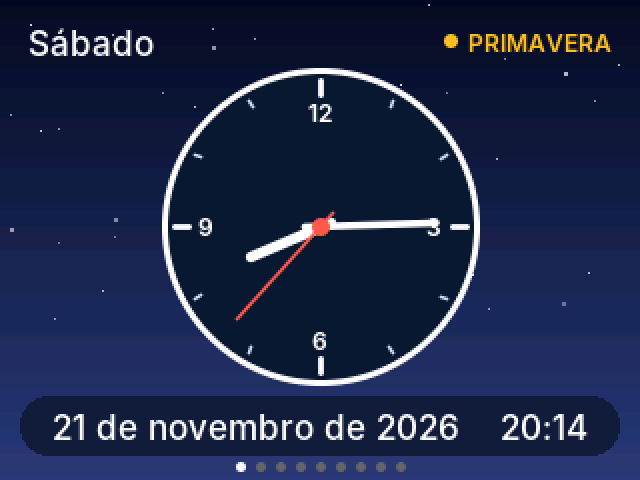
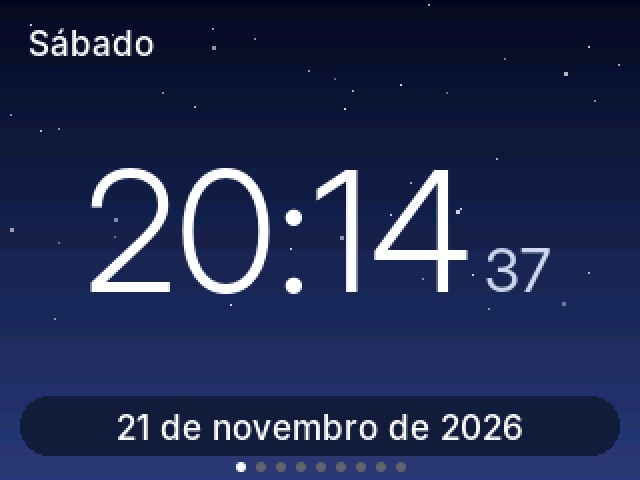
Troca o relógio de ponteiros por um digital e remove a estação do ano
Claude-Session: https://claude.ai/code/session_013r1tWBcHcwZwkaXJ8MnPzY

Changed region(s): [[0.125, 0.125, 0.875, 0.8125], [0.0938, 0.8438, 0.9375, 0.9375], [0.6875, 0.0625, 0.9688, 0.125]]

diff --git a/src/ui/screen_clock.cpp b/src/ui/screen_clock.cpp
@@ -1,4 +1,3 @@
-#include <math.h>
 #include <stdio.h>
 
 #include "fonts/ui_fonts.h"
@@ -9,25 +8,10 @@
 namespace ui {
 namespace {
 
-constexpr float kTwoPi = 6.2831853f;
-constexpr uint32_t kFace = 0x0E1A33u;
-constexpr uint32_t kSecondHand = 0xFF5A4Fu;
-
 const char* const kWeekdays[] = {"Domingo", "Segunda-feira", "Terça-feira", "Quarta-feira",
                                  "Quinta-feira", "Sexta-feira", "Sábado"};
 const char* const kMonths[] = {"janeiro", "fevereiro", "março", "abril", "maio", "junho",
                                "julho", "agosto", "setembro", "outubro", "novembro", "dezembro"};
-const char* const kSeasons[] = {"VERÃO", "OUTONO", "INVERNO", "PRIMAVERA"};
-
-// Estações astronômicas aproximadas; índice 0 = verão no hemisfério sul
-const char* seasonName(const tm& now, bool southernHemisphere) {
-  const int dayCode = (now.tm_mon + 1) * 100 + now.tm_mday;
-  int index = 0;
-  if (dayCode >= 320 && dayCode < 621) index = 1;
-  else if (dayCode >= 621 && dayCode < 922) index = 2;
-  else if (dayCode >= 922 && dayCode < 1221) index = 3;
-  return kSeasons[southernHemisphere ? index : (index + 2) % 4];
-}
 
 void drawSkyForHour(LovyanGFX& gfx, int hour) {
   if (hour >= 6 && hour < 8) {
@@ -42,68 +26,35 @@ void drawSkyForHour(LovyanGFX& gfx, int hour) {
   }
 }
 
-void drawHand(LovyanGFX& gfx, int cx, int cy, float turns, int length, float thickness, uint32_t tint) {
-  const float angle = turns * kTwoPi;
-  gfx.drawWideLine(cx - static_cast<int>(sinf(angle) * length * 0.15f),
-                   cy + static_cast<int>(cosf(angle) * length * 0.15f),
-                   cx + static_cast<int>(sinf(angle) * length),
-                   cy - static_cast<int>(cosf(angle) * length), thickness, tint);
-}
-
-void drawFace(LovyanGFX& gfx, int cx, int cy, int radius, const tm& now) {
-  gfx.fillSmoothCircle(cx, cy, radius, color::kText);
-  gfx.fillSmoothCircle(cx, cy, radius - 3, kFace);
-
-  for (int i = 0; i < 12; ++i) {
-    const float angle = i * kTwoPi / 12;
-    const bool quarter = i % 3 == 0;
-    const int inner = radius - (quarter ? 13 : 9);
-    const int outer = radius - 6;
-    gfx.drawWideLine(cx + static_cast<int>(sinf(angle) * inner), cy - static_cast<int>(cosf(angle) * inner),
-                     cx + static_cast<int>(sinf(angle) * outer), cy - static_cast<int>(cosf(angle) * outer),
-                     quarter ? 1.4f : 0.8f, quarter ? color::kText : color::kTextMuted);
-  }
-
-  gfx.setFont(&fonts().small);
-  gfx.setTextDatum(lgfx::middle_center);
-  gfx.setTextColor(color::kText);
-  for (int hour = 3; hour <= 12; hour += 3) {
-    char label[3];
-    snprintf(label, sizeof(label), "%d", hour);
-    const float angle = hour * kTwoPi / 12;
-    gfx.drawString(label, cx + static_cast<int>(sinf(angle) * (radius - 22)),
-                   cy - static_cast<int>(cosf(angle) * (radius - 22)));
-  }
-
-  const float seconds = now.tm_sec / 60.0f;
-  const float minutes = (now.tm_min + seconds) / 60.0f;
-  const float hours = (now.tm_hour % 12 + minutes) / 12.0f;
-  drawHand(gfx, cx, cy, hours, radius * 50 / 100, 2.6f, color::kText);
-  drawHand(gfx, cx, cy, minutes, radius * 74 / 100, 1.8f, color::kText);
-  drawHand(gfx, cx, cy, seconds, radius * 80 / 100, 0.8f, kSecondHand);
-  gfx.fillSmoothCircle(cx, cy, 4, kSecondHand);
-}
-
 }  // namespace
 
-void drawClockScreen(LovyanGFX& gfx, const tm& now, bool southernHemisphere) {
+void drawClockScreen(LovyanGFX& gfx, const tm& now) {
   drawSkyForHour(gfx, now.tm_hour);
-  drawHeader(gfx, kWeekdays[now.tm_wday % 7], seasonName(now, southernHemisphere), color::kNeutral, true);
+  drawHeader(gfx, kWeekdays[now.tm_wday % 7], nullptr, color::kText);
 
-  const Rect footer = drawFooterPanel(gfx);
-  const int radius = (footer.y - kHeaderBottom - 6) / 2;
-  drawFace(gfx, gfx.width() / 2, kHeaderBottom + radius, radius, now);
-
+  // Horas e minutos centralizados; os segundos ficam ao lado, alinhados pela base
   char text[40];
-  const int middleY = footer.y + footer.h / 2;
+  const Rect footer = drawFooterPanel(gfx);
+  const int baseline = (kHeaderBottom + footer.y) / 2 + 30;
+  gfx.setTextColor(color::kText);
+  gfx.setFont(&fonts().large);
+  snprintf(text, sizeof(text), "%02d", now.tm_sec);
+  const int secondsWidth = gfx.textWidth("00") + 6;
+  gfx.setFont(&fonts().huge);
+  char time[8];
+  snprintf(time, sizeof(time), "%02d:%02d", now.tm_hour, now.tm_min);
+  const int timeX = (gfx.width() - gfx.textWidth(time) - secondsWidth) / 2;
+  gfx.setTextDatum(lgfx::baseline_left);
+  gfx.drawString(time, timeX, baseline);
+  gfx.setFont(&fonts().large);
+  gfx.setTextColor(color::kTextMuted);
+  gfx.drawString(text, timeX + gfx.width() - 2 * timeX - secondsWidth + 6, baseline);
+
   gfx.setFont(&fonts().medium);
   gfx.setTextColor(color::kText);
-  gfx.setTextDatum(lgfx::middle_left);
+  gfx.setTextDatum(lgfx::middle_center);
   snprintf(text, sizeof(text), "%d de %s de %d", now.tm_mday, kMonths[now.tm_mon % 12], now.tm_year + 1900);
-  gfx.drawString(text, footer.x + 16, middleY);
-  gfx.setTextDatum(lgfx::middle_right);
-  snprintf(text, sizeof(text), "%02d:%02d", now.tm_hour, now.tm_min);
-  gfx.drawString(text, footer.x + footer.w - 16, middleY);
+  gfx.drawString(text, gfx.width() / 2, footer.y + footer.h / 2);
 }
 
 }  // namespace ui

diff --git a/src/ui/ui_screens.h b/src/ui/ui_screens.h
@@ -34,7 +34,6 @@ struct DashboardState {
   long long nowEpoch = 0;
   const char* city = "";
   const char* newsSource = "";
-  bool southernHemisphere = true;
 };
 
 void drawScreen(LovyanGFX& gfx, Screen screen, const DashboardState& state);
@@ -47,6 +46,6 @@ void drawStocksScreen(LovyanGFX& gfx, const StocksData& stocks);
 void drawHeadlineScreen(LovyanGFX& gfx, const NewsData& news, const HeadlineStyle& style);
 void drawBatteryScreen(LovyanGFX& gfx, const BatteryData& battery);
 void drawVideoScreen(LovyanGFX& gfx, const VideoData& video, long long nowEpoch);
-void drawClockScreen(LovyanGFX& gfx, const tm& now, bool southernHemisphere);
+void drawClockScreen(LovyanGFX& gfx, const tm& now);
 
 }  // namespace ui

diff --git a/src/ui/ui_screens.cpp b/src/ui/ui_screens.cpp
@@ -20,7 +20,7 @@ void drawScreen(LovyanGFX& gfx, Screen screen, const DashboardState& state) {
       break;
     case Screen::Battery:  drawBatteryScreen(gfx, state.battery); break;
     case Screen::Video:    drawVideoScreen(gfx, state.video, state.nowEpoch); break;
-    case Screen::Clock:    drawClockScreen(gfx, state.now, state.southernHemisphere); break;
+    case Screen::Clock:    drawClockScreen(gfx, state.now); break;
   }
 }
 

diff --git a/include/app_config.h b/include/app_config.h
@@ -26,7 +26,6 @@ constexpr float kBatteryDividerRatio = 2.0f;
 // Data e hora
 constexpr char kTimezone[] = "<-04>4";  // reserva: Cuiabá/MT, UTC-4 (formato POSIX; Brasília seria "<-03>3")
 constexpr char kNtpServer[] = "a.st1.ntp.br";
-constexpr bool kSouthernHemisphere = true;
 
 // Local: usado pelo clima (Open-Meteo).
 // Com a detecção ligada, cidade, coordenadas e fuso horário vêm do endereço de rede (ipwho.is);

diff --git a/src/main.cpp b/src/main.cpp
@@ -188,7 +188,6 @@ void setup() {
 
   state.city = services::currentPlace().city;
   state.newsSource = config::kNewsSource;
-  state.southernHemisphere = config::kSouthernHemisphere;
   selectActiveScreens();
 
   String ssid;

diff --git a/README.md b/README.md
@@ -4,7 +4,7 @@ Firmware para o módulo **ES3C28P** (ESP32-S3 + tela IPS 2.8" 240x320 com toque 
 
 | Tela | Conteúdo | Fonte dos dados |
 |---|---|---|
-| Relógio | Hora, dia da semana, data completa com ano e estação | NTP |
+| Relógio | Relógio digital com segundos, dia da semana e data completa com ano | NTP |
 | Clima | Temperatura, máxima/mínima, condição e chuva nas próximas 12 h | Open-Meteo |
 | Dólar | Cotação PTAX, variação do dia, barras da semana e euro | Banco Central (PTAX) |
 | Cripto | Preço e variação em 24 h (até 4 moedas) | CoinGecko |
@@ -45,7 +45,7 @@ Se a porta não aparecer, entre em modo de gravação: segure **BOOT**, pression
 | `kDisplayRotation`, `kBrightness` | Orientação (1 ou 3) e brilho |
 | `kDetectLocation` | Detecta cidade e fuso horário pelo endereço de rede (ipwho.is) |
 | `kCityName`, `kLatitude`, `kLongitude` | Local usado se a detecção estiver desligada ou falhar |
-| `kTimezone`, `kSouthernHemisphere` | Fuso horário de reserva e estação do ano |
+| `kTimezone` | Fuso horário de reserva |
 | `kCoins`, `kCryptoCurrency` | Moedas da tela Cripto |
 | `kStocks` | Ativos da tela Bolsa (ações da B3 terminam em `.SA`) |
 | `kNewsFeedUrl`, `kNewsSource` | Feed RSS de notícias |
